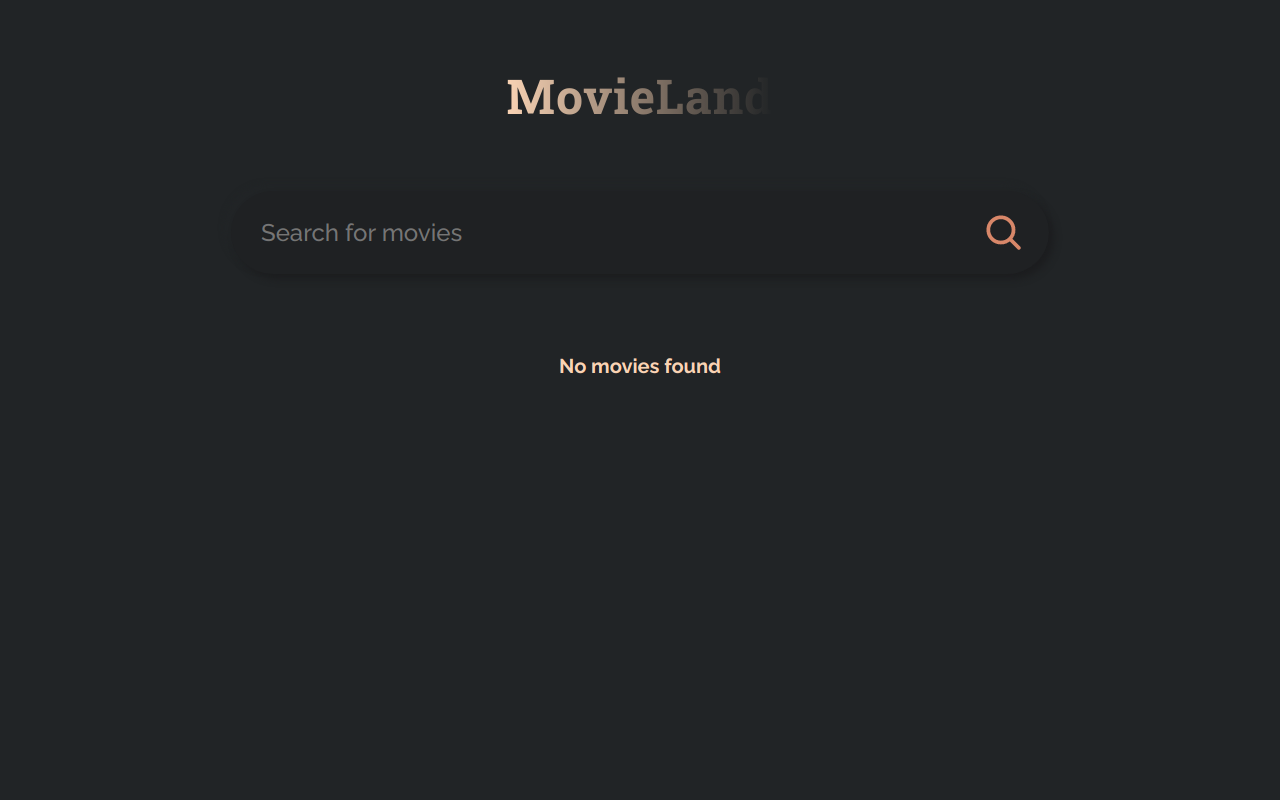
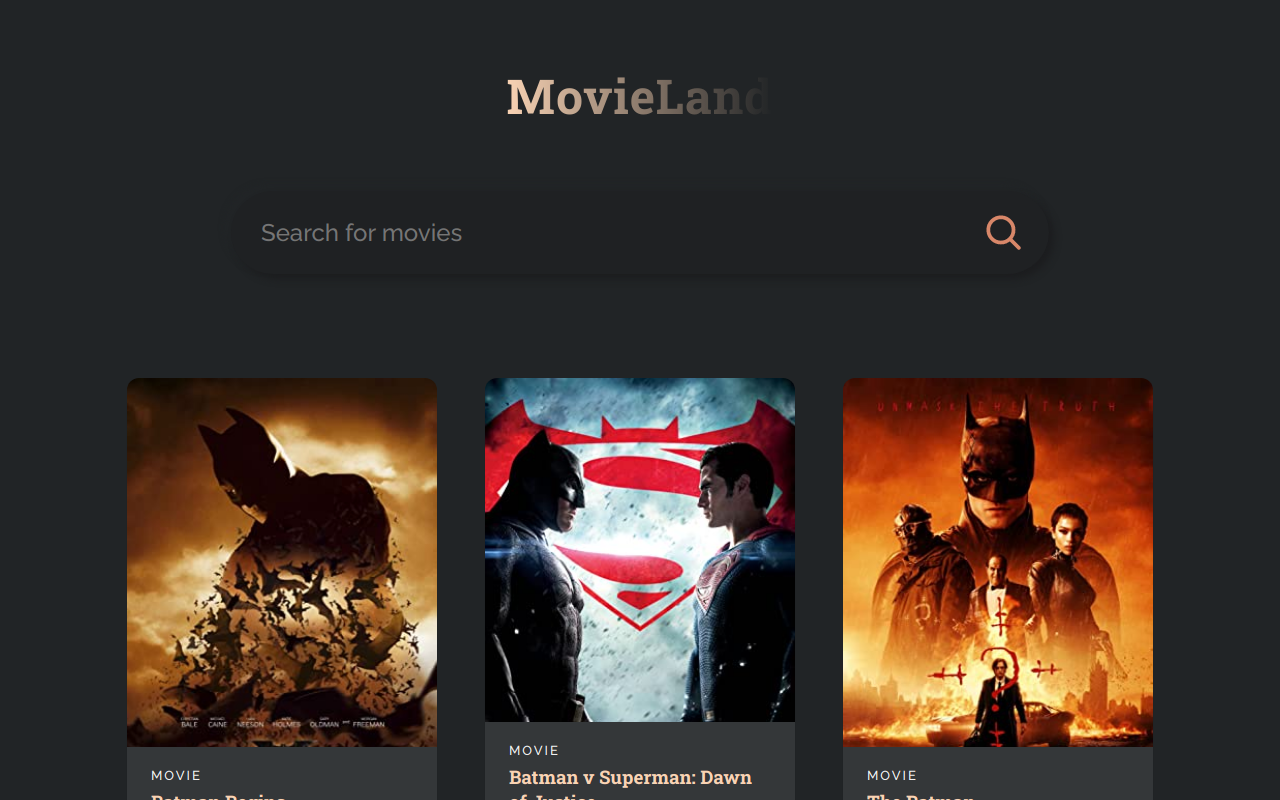
new project

diff --git a/src/compoments/portfolio/Portfolio.jsx b/src/compoments/portfolio/Portfolio.jsx
@@ -6,7 +6,7 @@ import IMG1 from "../../assets/Agency.png";
 import IMG2 from "../../assets/fit.png";
 import IMG3 from "../../assets/trv.png";
 import IMG4 from "../../assets/movies.png";
-import IMG5 from "../../assets/portfolio5.png";
+import IMG5 from "../../assets/movies2.png";
 import IMG6 from "../../assets/portfolio6.jpg";
 
 const data = [
@@ -37,7 +37,7 @@ const data = [
   {
     id: 4,
     image: IMG4,
-    title: "TMovies App",
+    title: "Movies App",
     github: "https://github.com/hmz273",
     demo: "https://movies-night.vercel.app/",
   },
@@ -45,9 +45,9 @@ const data = [
   {
     id: 5,
     image: IMG5,
-    title: "This is a portfolio item title",
+    title: "TMovies",
     github: "https://github.com/hmz273",
-    demo: "https//google.com",
+    demo: "https://react-movie-azure.vercel.app/",
   },
 
   {
